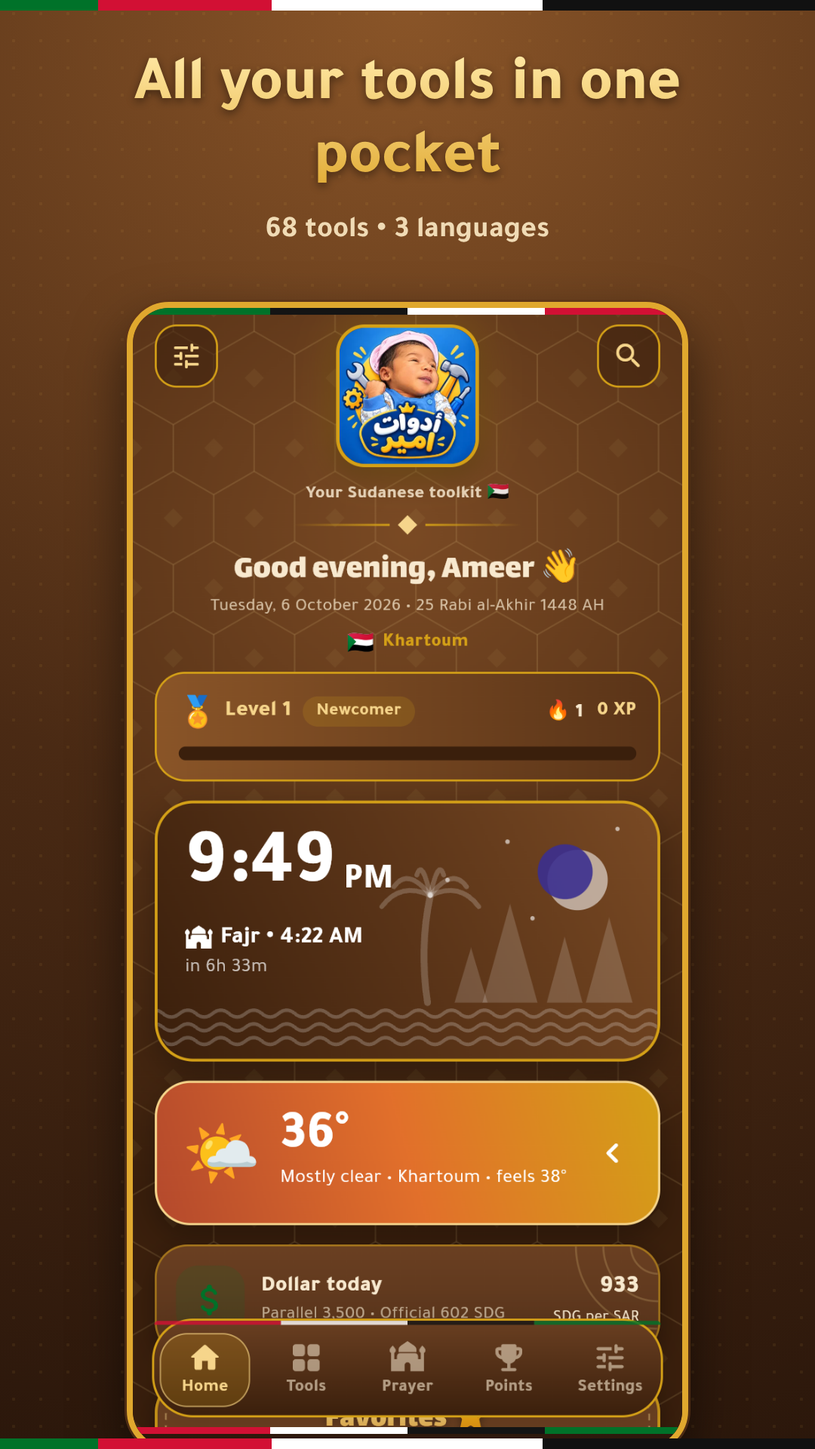
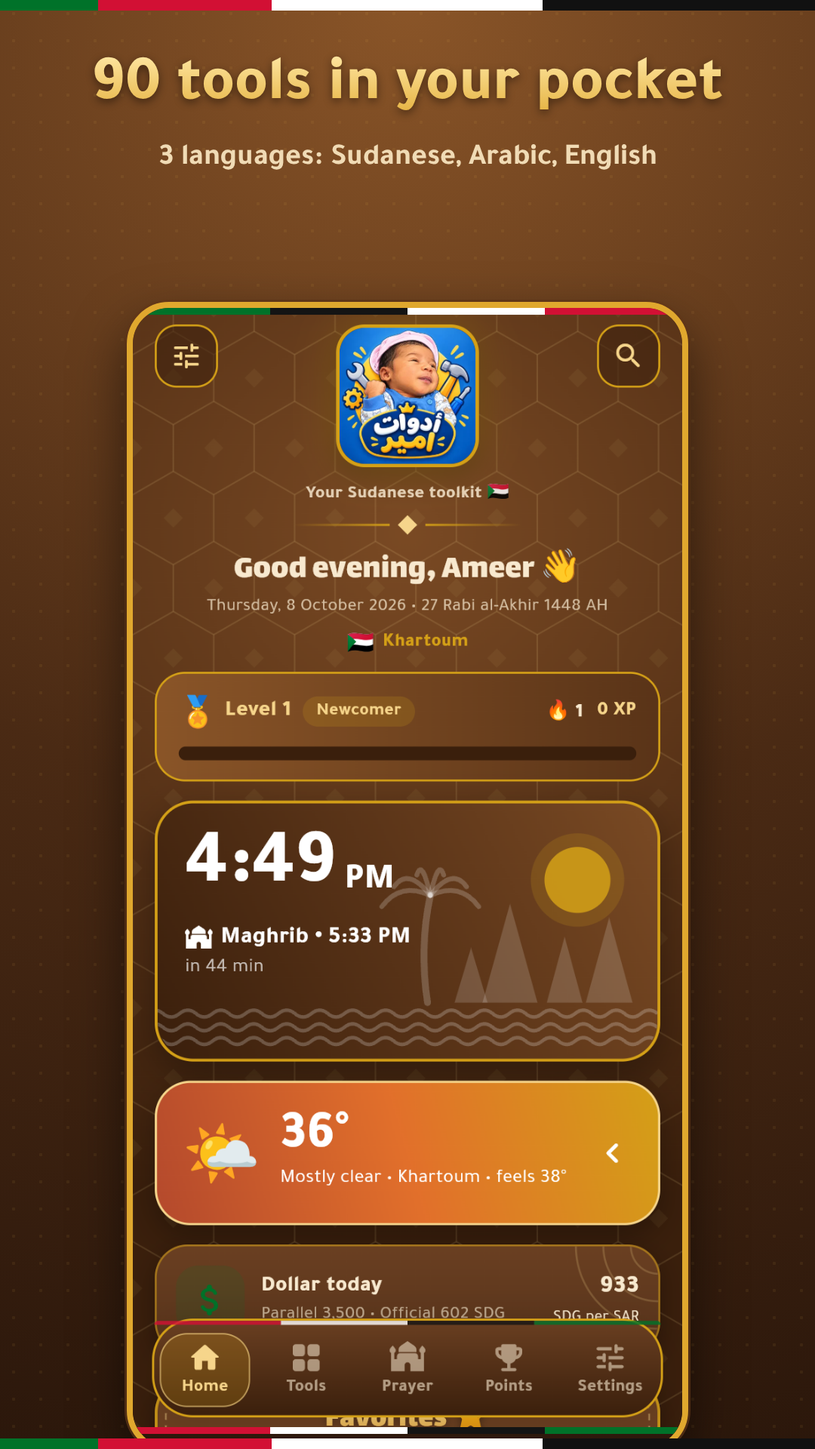
Update Play listing for 1.3.0: 90 tools, widgets, new screenshots and feature graphics
Claude-Session: https://claude.ai/code/session_01JTDZZY39xXosTgSmYpfkyN

diff --git a/amir_tools/store/PLAY_STORE_LISTING.md b/amir_tools/store/PLAY_STORE_LISTING.md
@@ -9,8 +9,8 @@
 | البند | القيمة |
 |---|---|
 | اسم الحزمة (Package name) | `com.albushra.amir_tools` (لا يتغيّر بعد أول رفع) |
-| رقم النسخة (versionName) | **1.2.0** |
-| رمز النسخة (versionCode) | **3** (لازم يزيد مع كل رفع جديد: 4، 5، …) |
+| رقم النسخة (versionName) | **1.3.0** |
+| رمز النسخة (versionCode) | **4** (لازم يزيد مع كل رفع جديد: 5، 6، …) |
 | اسم التطبيق على الهاتف | `Ameer Tools 🔧` |
 | اسم التطبيق في المتجر (Title) | **`Ameer Tools - أدوات أمير`** (24 حرف) |
 | اسم المطوّر | البشرى للتقنية / Al-Bushra Technology |
@@ -27,20 +27,20 @@
 **بدائل للعنوان (كلها أقل من 30 حرف):**
 - `Ameer Tools - أدوات أمير` ← المقترح
 - `أدوات أمير - Ameer Tools`
-- `Ameer Tools: 68 أداة في جيبك`
+- `Ameer Tools: 90 أداة في جيبك`
 
 ---
 
 ## 2) الوصف المختصر (Short description, 80 حرف كحد أقصى)
 
-**عربي (70 حرف):**
+**عربي:**
 ```
-68 أداة في تطبيق واحد: صلاة، عملات، عمر، صحة، كتابة وزخرفة، بثلاث لغات
+90 أداة في تطبيق واحد: صلاة، عملات، غاز، قطوعات، صحة، ودجت، بثلاث لغات
 ```
 
-**English (78 characters):**
+**English:**
 ```
-68 handy tools in one app: prayer times, currency, age, health, writing & more
+90 handy tools in one app: prayer, currency, gas, power cuts, health & widgets
 ```
 
 ---
@@ -49,136 +49,112 @@
 
 ### عربي
 ```
-أدوات أمير: 68 أداة مفيدة في تطبيق واحد خفيف، بطابع سوداني أصيل وألوان التراث، وتشتغل في أي مكان في العالم.
+أدوات أمير: 90 أداة مفيدة في تطبيق واحد، بطابع سوداني أصيل وألوان التراث، وتشتغل في أي مكان في العالم.
+بثلاث لغات: سوداني، عربي فصيح، وإنجليزي. وأغلب الأدوات تشتغل بدون إنترنت.
 
-التطبيق بثلاث لغات: سوداني، عربي فصيح، وإنجليزي. وأغلب الأدوات تشتغل بدون إنترنت.
+🧩 ودجت للشاشة الرئيسية
+• أدواتك المفضلة • الصلاة القادمة مع عدّاد تنازلي • أسطوانة الغاز • قطوعات الكهرباء • سعر الدولار
 
-🕌 الدين والعبادة
-• مواقيت الصلاة لأي مدينة في العالم، مع 11 طريقة حساب وتنبيه الأذان
-• اتجاه القبلة بالبوصلة
-• الأذكار والمسبحة الإلكترونية ومكتبة الأدعية
-• أسماء الله الحسنى، وختمة القرآن، ومتتبع الصيام
-• المواقيت الشهرية، ومحوّل التواريخ (هجري، ميلادي، قبطي، إثيوبي)، والمناسبات الإسلامية
-• حاسبة المواريث وحاسبة الزكاة
+🕌 الدين
+• مواقيت الصلاة لأي مدينة (11 طريقة حساب) وتنبيه الأذان، والقبلة
+• الأذكار، والمسبحة، ومكتبة الأدعية، وأسماء الله الحسنى
+• ختمة القرآن، وحفظ القرآن ومراجعته، وثلث الليل الأخير
+• متتبع الصيام، والمواقيت الشهرية، ومحوّل التواريخ (هجري، قبطي، إثيوبي)، والمناسبات
+• المواريث، والزكاة، والأضحية والعقيقة، والفدية والكفارات
 
 💰 المال والسوق
-• الدولار والعملات بالسعر الموازي والرسمي، و17 عملة
-• تحويلات المغتربين: كم يصل لأهلك؟
-• الذهب بالعيارات، والأقساط والمرابحة، والنسب والضريبة
-• الكهرباء والطاقة الشمسية، ومحوّل الوحدات
-• تقسيم الحساب، وتفقيط المبالغ، وأيهما أوفر، وتكلفة الرحلة
+• الدولار والعملات بالسعر الموازي والرسمي، وتحويلات المغتربين، والذهب
+• ميزانية الشهر، وميزانية الزفاف، ودفتر المحل (المخزون والأرباح)
+• الأقساط والمرابحة، والنسب والضريبة، والكهرباء والطاقة الشمسية
+• تقسيم الحساب، وتفقيط المبالغ، وأيهما أوفر، وتكلفة الرحلة، ومحوّل الوحدات
+
+🏠 البيت والعربية
+• أسطوانة الغاز: متى تنفد وكم تكلّف
+• جدول انقطاع الكهرباء مع تنبيه قبل القطع
+• المولّد والوقود، وصيانة السيارة، وصلاحية مخزن البيت
+• قائمة المشتريات، والفواتير الشهرية، وحاسبة مواد البناء، وحاسبة الزراعة
 
 💼 الشغل والغربة
-• حاسبة الراتب ونهاية الخدمة
-• تنبيه انتهاء الأوراق الرسمية (جواز، إقامة، رخصة)
-• عبارات المغترب، وفاتورة سريعة
+• الراتب ونهاية الخدمة، وتذكير انتهاء المستندات، وعبارات المغترب، وفاتورة سريعة، وقائمة تجهيز السفر
 
 ❤ الصحة والعائلة
-• حاسبة الصحة (الوزن المثالي، كتلة الجسم، السعرات)
-• حاسبة الحمل، ومتابعة نمو الطفل
-• مواعيد الدواء مع تنبيهات، وسجل السكر والضغط
-• شرب الماء، والنوم والمزاج
+• حاسبة الصحة، والحمل، ونمو الطفل، ومواعيد الدواء، وسجل السكر والضغط، والماء، والنوم والمزاج
 
-🏠 البيت والحياة اليومية
-• متتبع العادات، والمهام، والمصاريف اليومية، والديون، والصندوق
-• قائمة المشتريات، والفواتير الشهرية
-• حاسبة مواد البناء، وحاسبة الزراعة
-• حاسبة العمر بالتفصيل الدقيق: بالأيام والساعات والثواني، وبالتقويم الهجري والقبطي والإثيوبي، وعمرك على الكواكب الأخرى
-• الآلة الحاسبة العلمية، والمؤقت، وجلسات التركيز، والقرعة، وساعات العالم، والمعدل الدراسي، ومحوّل المقاسات
-• الطقس والغبار، والأمثال السودانية
+📚 التعليم والترفيه
+• نسبة الشهادة السودانية، وبطاقات المذاكرة، وجدول الضرب للأطفال
+• حاسبة نقاط الورق (كونكان وهاند)، والدومينو وتقسيم الفرق
 
-✍ مساعد الكاتب
-• نظّم قصصك ورواياتك في مشاريع
-• بطاقات للشخصيات والعلاقات بينها
-• ترتيب الفصول والمشاهد، وبناء العالم
-• محفّزات للكتابة، وإحصائيات وهدف يومي
+☀ اليوميات والتنظيم
+• حاسبة العمر بالتفصيل الدقيق، والآلة الحاسبة، والمؤقت، والتركيز، والقرعة، وساعات العالم، والمعدل الدراسي، والطقس والغبار، والأمثال السودانية
+• متتبع العادات، والمهام، والمصروفات، والديون، والصندوق، والعدّاد، والملاحظات السريعة
 
-🎨 النصوص والصور
-• استخراج النص من الصور (OCR) بالعربي والإنجليزي، على جهازك بدون رفع الصور
-• زخرفة النصوص: عشرات الزخارف العربية والخطوط الإنجليزية المميزة
-• أدوات النص: عدّ الكلمات، والتنظيف، والنطق، والكتابة بالصوت
-• رمز QR (قراءة وإنشاء)، ومولّد كلمات السر، والخزنة السرية، وضغط الصور
+✍ النصوص والصور
+• مساعد الكاتب للقصص والشخصيات والفصول
+• استخراج النص من الصور، وزخرفة النصوص، والصور إلى PDF، ومسجّل الصوت
+• رمز QR، وكلمات السر، والخزنة السرية، وضغط الصور
 
-📱 أدوات الجهاز
-• الكشاف، والبوصلة والموقع، وميزان الماء، والمسطرة بطول الشاشة كاملة
-• مقياس الضوضاء، ومعلومات هاتفك
+📱 الجهاز
+• الكشاف، والبوصلة، وميزان الماء، والمسطرة، ومقياس الضوضاء، والمرآة، ومعلومات هاتفك
 
-⭐ مميزات إضافية
-• نظام نقاط ومستويات وإنجازات يشجّعك كل يوم
-• المفضلة: ثبّت أدواتك المهمة في الصفحة الرئيسية
-• قفل برقم سري، ونسخة احتياطية لبياناتك
-• وضع ليلي، وخلفيات مزخرفة بألوان التراث السوداني
+⭐ نقاط ومستويات وإنجازات، ومفضلة، وقفل برقم سري، ونسخة احتياطية، ووضع ليلي.
 
-🔒 خصوصيتك محفوظة
-لا يوجد تسجيل دخول، ولا إعلانات، ولا نجمع بياناتك. كل ما تكتبه يُحفظ على جهازك فقط.
+🔒 بلا تسجيل دخول، وبلا إعلانات، وبلا جمع بيانات. كل ما تكتبه يُحفظ على جهازك فقط.
 
 من البشرى للتقنية.
 ```
 
 ### English
 ```
-Ameer Tools: 68 useful tools in one light app, with a warm Sudanese heritage design, and it works anywhere in the world.
+Ameer Tools: 90 useful tools in one app, with a warm Sudanese heritage design, and it works anywhere in the world.
+Three languages: Sudanese Arabic, Standard Arabic and English. Most tools work offline.
 
-Available in three languages: Sudanese Arabic, Standard Arabic and English. Most tools work offline.
+🧩 HOME-SCREEN WIDGETS
+• Favourite tools • Next prayer with live countdown • Gas cylinder • Power cuts • Dollar rate
 
 🕌 FAITH
-• Prayer times for any city worldwide, 11 calculation methods and adhan alerts
-• Qibla compass
-• Adhkar, digital tasbih and a duas library
-• 99 Names of Allah, Qur'an khatma planner and fasting tracker
-• Monthly timetable, date converter (Hijri, Gregorian, Coptic, Ethiopian) and Islamic occasions
-• Inheritance and zakat calculators
+• Prayer times for any city (11 methods) with adhan alerts, and qibla
+• Adhkar, tasbih, duas library and the 99 Names of Allah
+• Qur'an khatma, Qur'an memorization & review, last third of the night
+• Fasting tracker, monthly timetable, date converter (Hijri, Coptic, Ethiopian), occasions
+• Inheritance, zakat, udhiya & aqiqa, fidya & kaffarat
 
 💰 MONEY
-• Currency converter with parallel and official rates, 17 currencies
-• Expat remittances: how much reaches home?
-• Gold karats, installments and murabaha, percent and tax
-• Power and solar sizing, unit converter
-• Bill splitter, amount in words, best price, trip cost
+• Currencies with parallel and official rates, expat remittances, gold
+• Monthly budget, wedding budget, shop ledger (stock & profit)
+• Installments & murabaha, percent & tax, power & solar
+• Bill splitter, amount in words, best price, trip cost, unit converter
+
+🏠 HOME & CAR
+• Gas cylinder: when it runs out and what it costs
+• Power-cut schedule with alerts before each cut
+• Generator & fuel, car maintenance, pantry expiry
+• Shopping list, monthly bills, building materials, farm calculator
 
 💼 WORK & ABROAD
-• Salary and end-of-service calculator
-• Document expiry reminders (passport, residency, licence)
-• Expat phrasebook and quick invoice
+• Salary & end of service, document expiry reminders, expat phrasebook, quick invoice, travel packing list
 
 ❤ HEALTH & FAMILY
-• Health calculator (BMI, ideal weight, calories)
-• Pregnancy calculator and child growth tracker
-• Medicine reminders, glucose and blood pressure log
-• Water intake, sleep and mood
+• Health calculator, pregnancy, child growth, medicine reminders, glucose & BP log, water, sleep & mood
 
-🏠 HOME & DAILY LIFE
-• Habit tracker, tasks, daily expenses, debts and savings circle (sanduq)
-• Shopping list and monthly bills
-• Building materials and farm calculators
-• Age calculator in every detail: days, hours, seconds, Hijri, Coptic and Ethiopian dates, and your age on other planets
-• Scientific calculator, timer, focus sessions, random draw, world clock, GPA and size converter
-• Weather and dust, Sudanese proverbs
+📚 LEARNING & FUN
+• Sudan school certificate %, flashcards, times tables for kids
+• Card game scores (Konkan, Hand), dominoes & team split
 
-✍ WRITER'S STUDIO
-• Organise stories and novels into projects
-• Character cards and relationships
-• Chapters, scenes and world-building
-• Writing prompts, statistics and a daily goal
+☀ DAILY & ORGANISE
+• Detailed age calculator, calculator, timer, focus, random draw, world clock, GPA, weather & dust, Sudanese proverbs
+• Habits, tasks, expenses, debts, savings circle, tally counter, quick notes
 
-🎨 TEXT & IMAGES
-• Text from image (OCR) in Arabic and English, processed on your phone
-• Text decoration: dozens of Arabic ornaments and fancy Latin fonts
-• Text tools: word count, cleanup, read aloud and voice typing
-• QR code scanner and generator, password generator, secret vault and image compressor
+✍ TEXT & IMAGES
+• Writer's Studio for stories, characters and chapters
+• Text from image (OCR), text decoration, images to PDF, voice recorder
+• QR codes, passwords, secret vault, image compressor
 
 📱 DEVICE
-• Flashlight, compass and location, spirit level, and a full-height ruler
-• Noise meter and phone info
+• Flashlight, compass, spirit level, ruler, noise meter, mirror, phone info
 
-⭐ EXTRAS
-• Points, levels and achievements to keep you going
-• Favourites: pin your key tools to the home screen
-• PIN lock and data backup
-• Dark mode and ornate backgrounds in Sudanese heritage colours
+⭐ Points, levels and achievements, favourites, PIN lock, backup and dark mode.
 
-🔒 YOUR PRIVACY
-No sign-in, no ads, and no data collection. Everything you enter stays on your device.
+🔒 No sign-in, no ads, no data collection. Everything you enter stays on your device.
 
 By Al-Bushra Technology.
 ```
@@ -190,20 +166,14 @@ By Al-Bushra Technology.
 ألصقها في Play Console بهذا الشكل (الوسوم مطلوبة):
 ```
 <ar>
-• 68 أداة بثلاث لغات: سوداني، عربي، إنجليزي
-• جديد: مساعد الكاتب للقصص والشخصيات والفصول
-• جديد: زخرفة النصوص العربية والإنجليزية
-• جديد: استخراج النص من الصور (OCR)
-• اختيار أي مدينة في العالم لمواقيت الصلاة والطقس
-• تحسين الشكل وتصغير حجم التطبيق
+• 22 أداة جديدة: الغاز، المولّد، صيانة السيارة، قطوعات الكهرباء، ميزانية الزفاف، دفتر المحل، حفظ القرآن، الكوتشينة وغيرها
+• ودجت للشاشة الرئيسية: المفضلة، الصلاة، الغاز، القطوعات، الدولار
+• الصور إلى PDF، ومسجّل الصوت، والملاحظات
 </ar>
 <en-US>
-• 68 tools in 3 languages: Sudanese, Arabic, English
-• New: Writer's Studio for stories, characters and chapters
-• New: Arabic and English text decoration
-• New: Text from image (OCR)
-• Pick any city worldwide for prayer times and weather
-• Cleaner design and a smaller app size
+• 22 new tools: gas cylinder, generator, car care, power cuts, wedding budget, shop ledger, Qur'an memorization, card scores and more
+• Home-screen widgets: favorites, prayer, gas, power cuts, dollar
+• Images to PDF, voice recorder and notes
 </en-US>
 ```
 
@@ -218,20 +188,20 @@ By Al-Bushra Technology.
 | أيقونة التطبيق (App icon) | `icon_512.png` | 512×512 |
 | صورة العرض (Feature graphic) – عربي | `ar/feature_graphic_1024x500.png` | 1024×500 |
 | صورة العرض – إنجليزي | `en/feature_graphic_1024x500.png` | 1024×500 |
-| لقطات الهاتف (Phone screenshots) – عربي | `ar/01_home.png` … `ar/08_points.png` | 1080×1920 (8 صور) |
-| لقطات الهاتف – إنجليزي | `en/01_home.png` … `en/08_points.png` | 1080×1920 (8 صور) |
+| لقطات الهاتف – عربي | `ar/01_home.png` … `ar/08_cards.png` | 1080×1920 (8 صور) |
+| لقطات الهاتف – إنجليزي | `en/01_home.png` … `en/08_cards.png` | 1080×1920 (8 صور) |
 
-**ترتيب اللقطات وعناوينها:**
-1. الرئيسية: «كل أدواتك في جيبك»
-2. كل الأدوات: «68 أداة مرتّبة في أقسام»
-3. الصلاة: «مواقيت الصلاة لأي مدينة»
-4. حاسبة العمر: «عمرك بالتفصيل الدقيق»
-5. العملات: «الدولار والعملات»
-6. مساعد الكاتب
-7. زخرفة النصوص
-8. النقاط والإنجازات
+**ترتيب اللقطات:**
+1. الرئيسية: «90 أداة في جيبك»
+2. كل الأدوات: «90 أداة في 11 قسم»
+3. ودجت الشاشة الرئيسية
+4. مواقيت الصلاة
+5. أسطوانة الغاز
+6. جدول انقطاع الكهرباء
+7. ميزانية الزفاف
+8. حاسبة الكوتشينة
 
-> لقطات التابلت **غير إجبارية**. لو طلبها Play Console لاحقًا، ممكن نجهّزها.
+> عند تحديث المتجر: احذف اللقطات القديمة (8 صور) وارفع الجديدة بنفس الترتيب، واستبدل صورة العرض.
 
 ---
 
@@ -264,7 +234,7 @@ Tools, Productivity, Calculator, Religion (Islam), Utilities.
 
 **ما عدا ذلك، اختر No لكل الأنواع** (الاسم، البريد، الصور، الصوت، الملفات، الصحة، المالية، الرسائل، جهات الاتصال…). السبب:
 - الصور (OCR وضغط الصور وQR) تُعالج على الجهاز ولا تخرج منه.
-- الصوت (مقياس الضوضاء) يُحلَّل لحظيًا ولا يُسجَّل.
+- الصوت: مقياس الضوضاء يُحلَّل لحظيًا ولا يُسجَّل، وتسجيلات «مسجّل الصوت» تُحفظ على الجهاز فقط ولا تُرفع (ما بتطلع من التلفون إلا لو المستخدم شاركها بنفسه).
 - الكتابة بالصوت تستعمل خدمة التعرّف على الكلام في نظام الأندرويد نفسه، والتطبيق لا يرسل الصوت لأي خادم.
 - بيانات الصحة والمصاريف والقصص والخزنة كلها تُحفظ محليًا فقط.
 
@@ -328,22 +298,14 @@ https://aladeen35.github.io/test/privacy-policy.html
 
 ## 11) خطوات الرفع بالترتيب
 
-### أ) توقيع ملف الـ AAB (مرة واحدة فقط)
-الملف الحالي في صفحة الإصدارات **موقّع بمفتاح debug، وقوقل بلي سيرفضه.** المطلوب:
-1. في GitHub افتح المستودع، ثم **Settings → Secrets and variables → Actions → New repository secret**.
-2. أضف 4 أسرار (القيم في الملف `README-signing.txt` الذي أرسلته لك سابقًا):
-
-   | الاسم | القيمة |
-   |---|---|
-   | `KEYSTORE_BASE64` | محتوى `ameer-upload.jks.base64.txt` كاملًا |
-   | `KEYSTORE_PASSWORD` | كلمة سر المفتاح |
-   | `KEY_PASSWORD` | نفس كلمة السر |
-   | `KEY_ALIAS` | `upload` |
-
-3. شغّل البناء من جديد: **Actions → «Ameer Tools — بناء APK و AAB» → Run workflow**، أو بأي دفعة جديدة.
-4. نزّل `AmeerTools-GooglePlay.aab` الجديد من صفحة الإصدارات.
-
-> 🔐 احتفظ بملف `ameer-upload.jks` وكلمة السر في مكان آمن (مثل Google Drive خاص). لو ضاع، تحتاج تطلب من قوقل إعادة تعيين مفتاح الرفع.
+### أ) الملف الموقّع الجاهز للرفع
+نزّل الملف الموقّع بمفتاح الرفع الثابت (`upload`) من هنا، وارفعه مباشرة:
+```
+https://github.com/aladeen35/test/raw/ccr-56d19381-tk4i0e/release/AmeerTools-1.3.0-4-signed.aab
+```
+> ملفات صفحة الإصدارات (latest-build) موقّعة بمفتاح التجربة، **لا ترفعها لقوقل**. لو أضفت الأسرار الأربعة في GitHub (`KEYSTORE_BASE64`، `KEYSTORE_PASSWORD`، `KEY_PASSWORD`، `KEY_ALIAS`) يصير كل بناء جديد موقّعًا تلقائيًا.
+>
+> 🔐 احتفظ بملف `ameer-upload.jks` وكلمة السر في مكان آمن.
 
 ### ب) في Play Console
 1. **Create app**: الاسم `Ameer Tools - أدوات أمير`، واللغة العربية، وApp، وFree، ثم وافق على الإقرارات.
